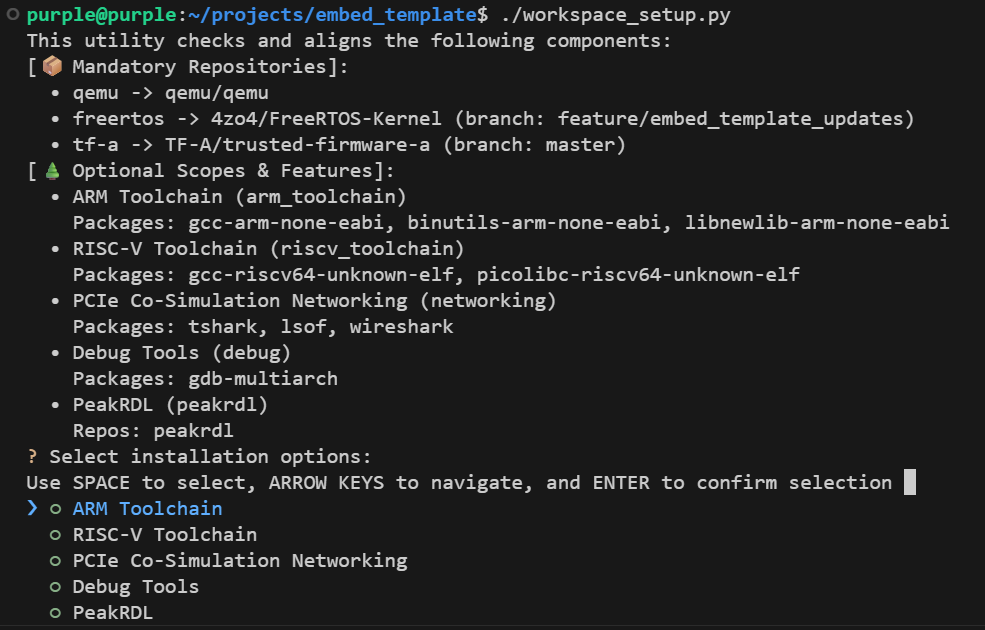
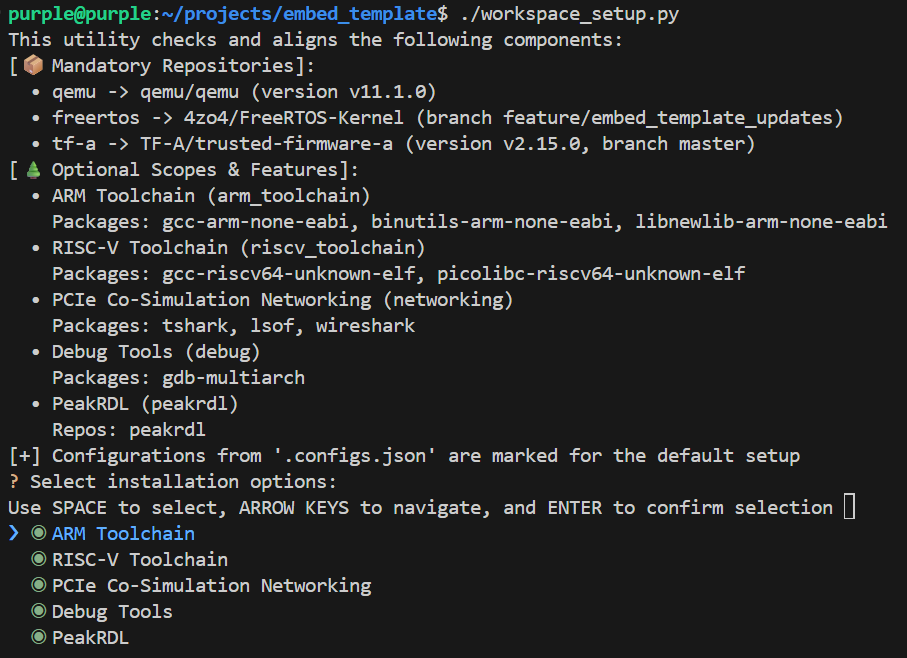
update readme.md

Changed region(s): [[0.0, 0.0, 0.9879, 0.9952], [0.4939, 0.6635, 0.8953, 0.7238]]

diff --git a/README.md b/README.md
@@ -46,7 +46,7 @@ To install the `Renode HW Simulator`, download the appropriate package for your 
    sudo apt install -y mono-complete libgtk2.0-0 libgtk-3-0
    sudo apt install ./renode_1.16.1_amd64.deb
 ```
-#### 1.2.1. Initialization
+#### 1.2.1. Renode Support Initialization
 
 If you just cloned this repository, initialize the Renode submodules:
 ```text
@@ -54,6 +54,13 @@ If you just cloned this repository, initialize the Renode submodules:
 ```
 ### 2. Miscellaneous
 
+#### 2.1. Uninstall, purge, or remove component
+
+Use the `workspace_setup.py` script to uninstall, purge, or remove project-specific components:
+
+<img src="images/embed_template_workspace_setup_help.png" alt="App Dashboard" width="75%">
+
+#### 2.2. Pre-commit
 For code development, install the pre-commit hook:
 ```text
     pre-commit install
@@ -65,16 +72,17 @@ Execute the `launch_runner` automation script to compile and launch your target 
 ```text
 chmod +x /path/to/your/local/EmbedTemplate/launch_runner.py
 ./launch_runner.py -h
-usage: launch_runner.py [-h] [--build] [--opt OPT] [--verbose] [--chip {stm32f4,gd32vf103,gd32vf103-virt,cortex-a9-virt,x86-virt,x86_64}] [--debug] [--sniffer]
+usage: launch_runner.py [-h] [--build] [--opt OPT] [--verbose] [--chip {stm32f4,cortex-a9-virt,gd32vf103,gd32vf103-virt,x86-virt,x86_64}]
+                        [--debug] [--sniffer]
 Simulation Framework Agent
 options:
   -h, --help            show this help message and exit
   --build               Build target chip firmware before launch. Select --chip to build its firmware.
   --opt OPT             Build options for target chip firmware. Example: --opt="-DENABLE_PCI=True"
   --verbose             Enable verbose build output
-  --chip {stm32f4,gd32vf103,gd32vf103-virt,cortex-a9-virt,x86-virt,x86_64}
-                        Specify the target chip (default: stm32f4)
-  --debug               Enable GDB server on port 1234 and stop guest CPU at startup
+  --chip {stm32f4,cortex-a9-virt,gd32vf103,gd32vf103-virt,x86-virt,x86_64}
+                        Specify the target chip
+  --debug               Enable GDB server and stop guest CPU at startup
   --sniffer             Launch packet sniffer to capture QEMU vfio-user traffic
 ```
 
